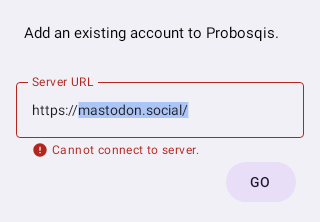
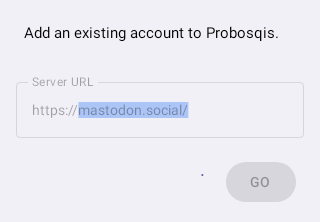
UrlInputPageでRepositoryが例外をスローするときの状態のテストとスクリーンショットのテストを分けた

diff --git a/modules/mastodon/ui/src/androidUnitTest/kotlin/com/wcaokaze/probosqis/mastodon/ui/auth/urlinput/UrlInputPageTest.kt b/modules/mastodon/ui/src/androidUnitTest/kotlin/com/wcaokaze/probosqis/mastodon/ui/auth/urlinput/UrlInputPageTest.kt
@@ -31,6 +31,7 @@ import androidx.compose.ui.text.input.TextFieldValue
 import com.github.takahirom.roborazzi.captureRoboImage
 import com.wcaokaze.probosqis.capsiqum.page.test.rememberTestPageState
 import com.wcaokaze.probosqis.ext.compose.BrowserLauncher
+import com.wcaokaze.probosqis.ext.compose.LoadState
 import com.wcaokaze.probosqis.ext.compose.LocalBrowserLauncher
 import com.wcaokaze.probosqis.mastodon.entity.Instance
 import com.wcaokaze.probosqis.mastodon.repository.AppRepository
@@ -59,6 +60,7 @@ import kotlin.concurrent.withLock
 import kotlin.test.AfterTest
 import kotlin.test.Test
 import kotlin.test.assertEquals
+import kotlin.test.assertIs
 
 @RunWith(RobolectricTestRunner::class)
 @GraphicsMode(GraphicsMode.Mode.NATIVE)
@@ -317,6 +319,30 @@ class UrlInputPageTest {
    }
 
    @Test
+   fun errorState_whenRepositoryThrows() {
+      val appRepository = mockk<AppRepository> {
+         every { getAuthorizeUrl(any<Instance>()) } throws IOException()
+      }
+
+      lateinit var state: UrlInputPageState
+
+      rule.setContent {
+         state = rememberPageState()
+
+         UrlInputPage(
+            state,
+            appRepository = appRepository
+         )
+      }
+
+      rule.onNodeWithText("GO").performClick()
+
+      rule.runOnIdle {
+         assertIs<LoadState.Error>(state.authorizeUrlLoadState)
+      }
+   }
+
+   @Test
    fun screenshot_usual() {
       rule.setContent {
          val state = rememberPageState()
@@ -328,64 +354,25 @@ class UrlInputPageTest {
 
    @Test
    fun screenshot_loading() {
-      val lock = ReentrantLock()
-
-      val appRepository = mockk<AppRepository> {
-         every { getAuthorizeUrl(any<Instance>()) } answers {
-            lock.withLock {
-               "https://auth.wcaokaze.com/"
-            }
-         }
-      }
-
-      val browserLauncher = mockk<BrowserLauncher> {
-         every { launchBrowser(any()) } just runs
-      }
-
-      val pageState = mockk<PPageState.Interface> {
-         every { startPage(any()) } just runs
-      }
-
       rule.setContent {
-         val state = rememberPageState(pageStateBase = pageState)
+         val state = rememberPageState().also {
+            it.authorizeUrlLoadState = LoadState.Loading
+         }
 
-         UrlInputPage(
-            state,
-            browserLauncher = browserLauncher,
-            appRepository = appRepository
-         )
+         UrlInputPage(state)
       }
 
-      lock.withLock {
-         rule.onNodeWithText("GO").performClick()
-         rule.onRoot().captureRoboImage("urlInputPage/loading.png")
-      }
+      rule.onRoot().captureRoboImage("urlInputPage/loading.png")
    }
 
    @Test
    fun screenshot_error() {
-      val lock = ReentrantLock()
-
-      val appRepository = mockk<AppRepository> {
-         every { getAuthorizeUrl(any<Instance>()) } answers {
-            lock.withLock {
-               throw IOException()
-            }
-         }
-      }
-
       rule.setContent {
-         val state = rememberPageState()
+         val state = rememberPageState().also {
+            it.authorizeUrlLoadState = LoadState.Error(Exception())
+         }
 
-         UrlInputPage(
-            state,
-            appRepository = appRepository
-         )
-      }
-
-      lock.withLock {
-         rule.onNodeWithText("GO").performClick()
-         rule.waitForIdle()
+         UrlInputPage(state)
       }
 
       rule.onRoot().captureRoboImage("urlInputPage/error.png")

diff --git a/modules/mastodon/ui/src/commonMain/kotlin/com/wcaokaze/probosqis/mastodon/ui/auth/urlinput/UrlInputPage.kt b/modules/mastodon/ui/src/commonMain/kotlin/com/wcaokaze/probosqis/mastodon/ui/auth/urlinput/UrlInputPage.kt
@@ -1,5 +1,5 @@
 /*
- * Copyright 2024 wcaokaze
+ * Copyright 2024-2025 wcaokaze
  *
  * Licensed under the Apache License, Version 2.0 (the "License");
  * you may not use this file except in compliance with the License.
@@ -96,7 +96,7 @@ class UrlInputPageState : PPageState<UrlInputPage>() {
    private val nodeInfoRepository: NodeInfoRepository by inject()
 
    var authorizeUrlLoadState: LoadState<Unit> by mutableStateOf(LoadState.Success(Unit))
-      private set
+      internal set
 
    var hasKeyboardShown by save(
       "has_keyboard_shown", Boolean.serializer(),
